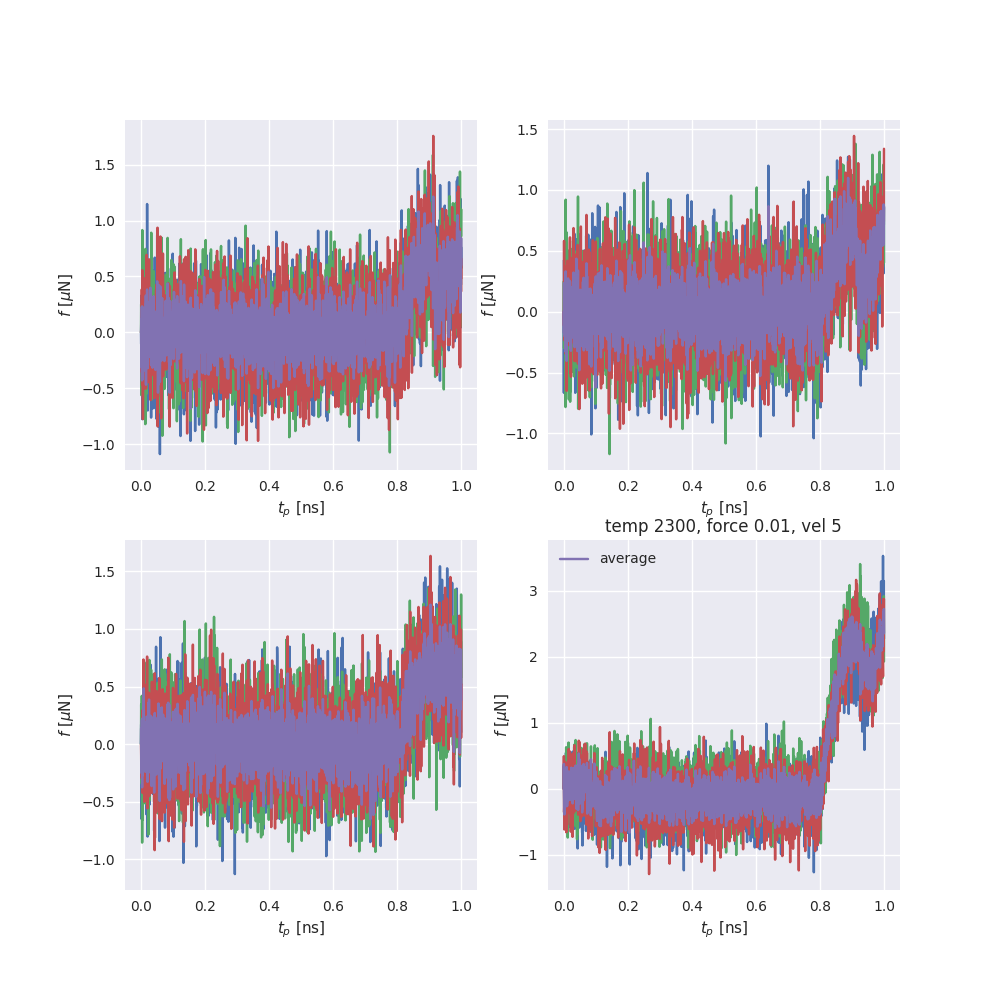
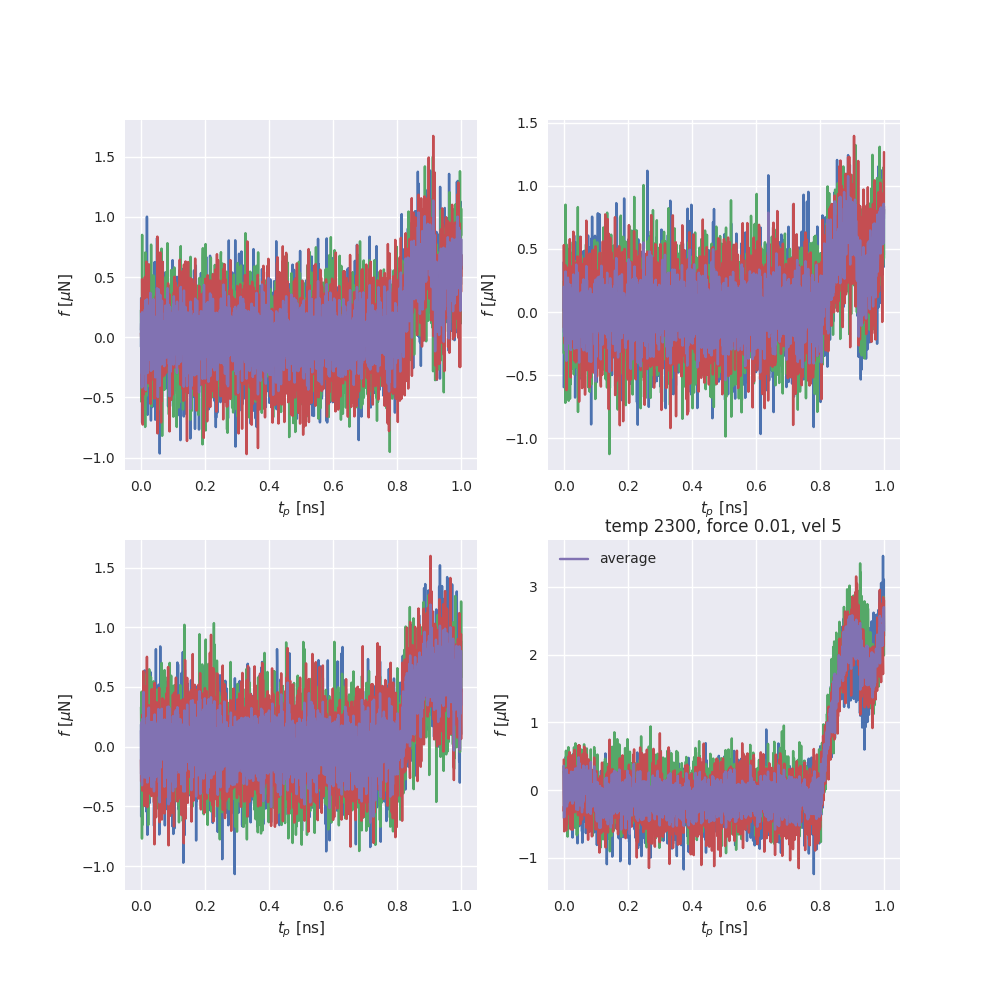
window in load curves now 5

diff --git a/python/post/get_load_curves.py b/python/post/get_load_curves.py
@@ -89,4 +89,4 @@ if __name__ == '__main__':
             seed = matches[-3]
             outfile_lc = f'../../txt/load_curves/production/load_curves_temp{temp}_vel{vel}_force{force}_asp{asperities}_initnum{initnum}_seed{seed}_errgrid4_4.txt'
             outfile_ms = f'../../txt/max_static/production/max_static_temp{temp}_vel{vel}_force{force}_asp{asperities}_initnum{initnum}_seed{seed}_errgrid4_4.txt'
-            extract_load_curves(logfile, None, 0, outfile_load_curves = outfile_lc, outfile_max_static = outfile_ms)
+            extract_load_curves(logfile, None, 0, window = 5, outfile_load_curves = outfile_lc, outfile_max_static = outfile_ms)
